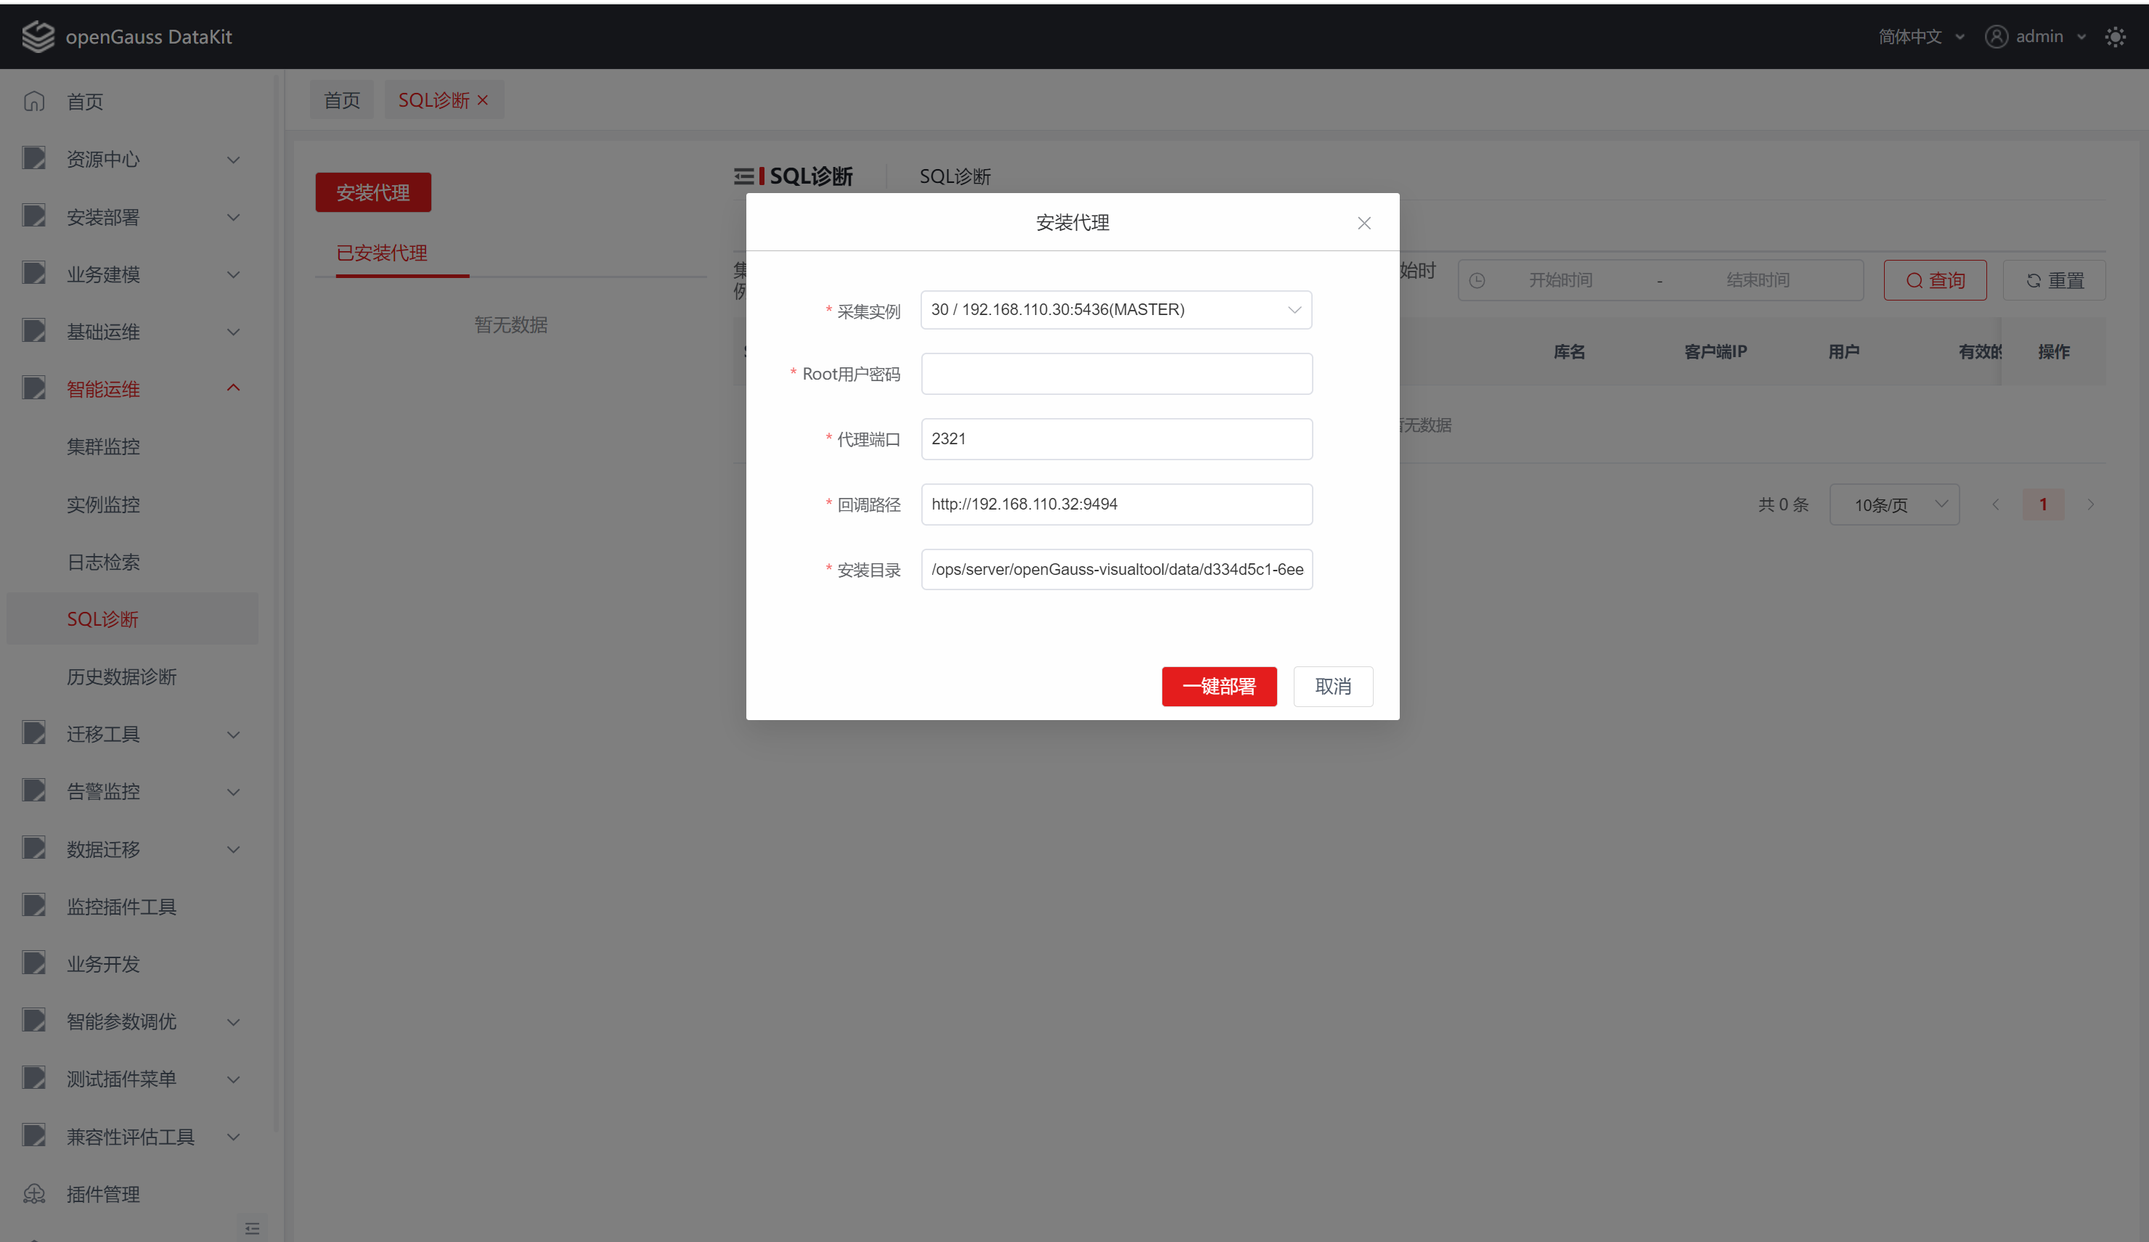
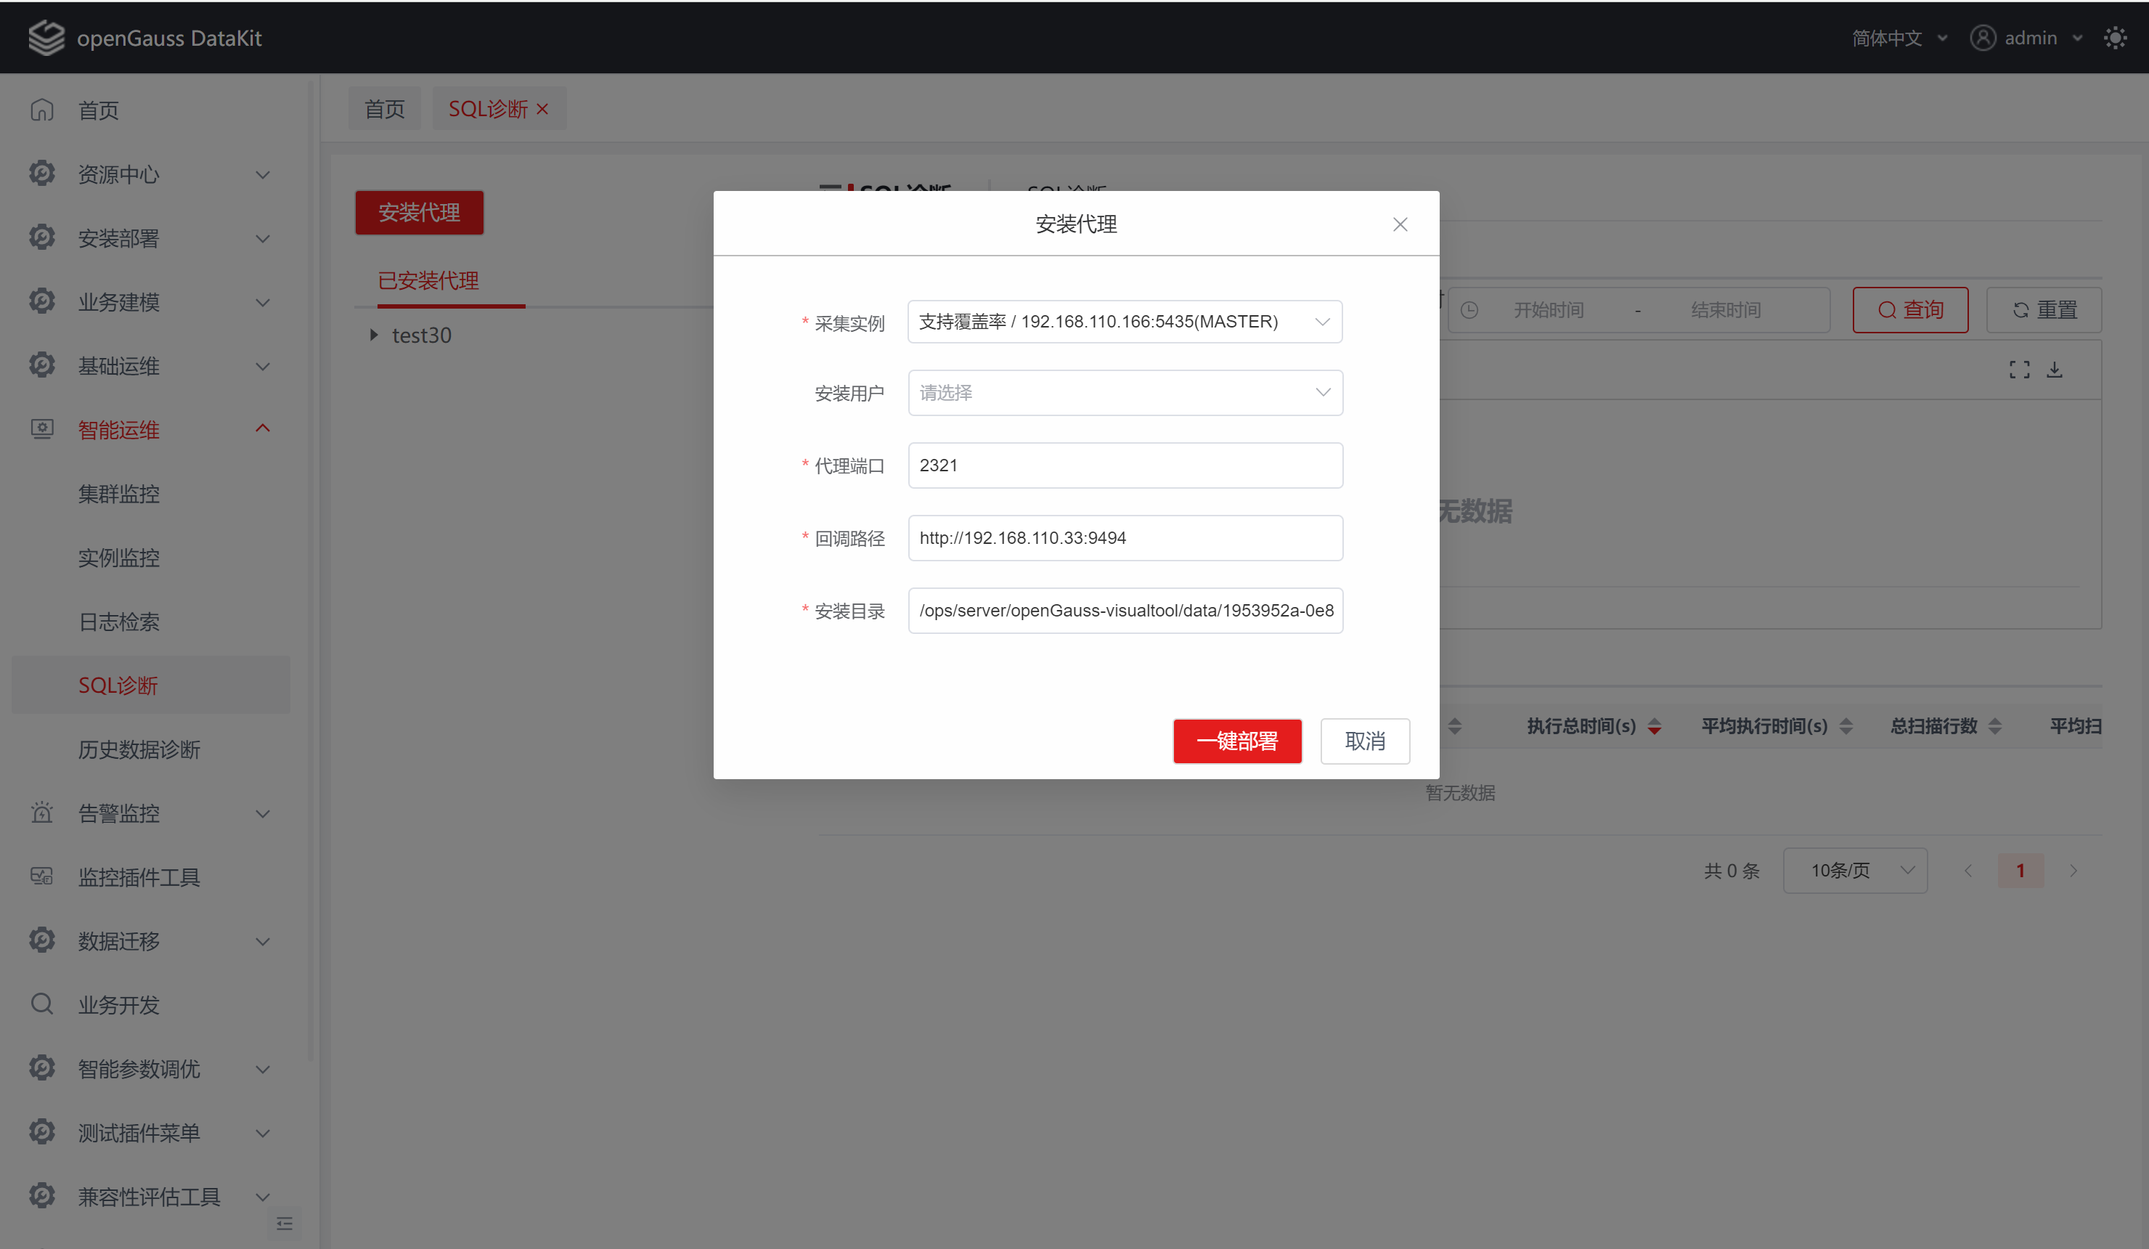
更新操作手册

diff --git a/plugins/observability-sql-diagnosis/README.md b/plugins/observability-sql-diagnosis/README.md
@@ -25,12 +25,14 @@
 
 ### 2.3 修订记录
 
-| 日期       | 版本   | 变更说明                     | 修改人 | 审核人 |
-| ---------- | ------ | ---------------------------- | ------ | ------ |
-| 2022/12/19 | v1.0.0 | 新增编译初版                 | 巫悦彬 | 曾色亮 |
-| 2023/06/14 | v1.1.0 | 新增历史数据诊断             | 罗梦   | 曾色亮 |
-| 2023/09/08 | v1.2.0 | 调整整体架构以及添加新诊断点 | 罗梦   | 曾色亮 |
-| 2024/03/22 | v1.3.0 | 优化安装部署、支持阈值设置   | 罗梦   | 彭斐灵 |
+| 日期       | 版本   | 变更说明                                       | 修改人 | 审核人 |
+| ---------- | ------ | ---------------------------------------------- | ------ | ------ |
+| 2022/12/19 | v1.0.0 | 新增编译初版                                   | 巫悦彬 | 曾色亮 |
+| 2023/06/14 | v1.1.0 | 新增历史数据诊断                               | 罗梦   | 曾色亮 |
+| 2023/09/08 | v1.2.0 | 调整整体架构以及添加新诊断点                   | 罗梦   | 曾色亮 |
+| 2024/03/22 | v1.3.0 | 优化安装部署、支持阈值设置                     | 罗梦   | 彭斐灵 |
+| 2024/05/31 | v1.4.0 | 慢SQL增加趋势图以及统计功能、SQL诊断支持schema | 罗梦   | 杨子浩 |
+| 2024/08/05 | v1.4.0 | 支持非Root用户进行诊断                         | 罗梦   | 杨子浩 |
 
 
 
@@ -181,7 +183,7 @@ git clone https://gitee.com/opengauss/openGauss-workbench
 mvn clean package -P prod
 ```
 
-**步骤 3：** 在target目录下找到生成的observability-sql-diagnosis-6.0.0-repackage.jar，安装到一体化平台。
+**步骤 3：** 在target目录下找到生成的observability-sql-diagnosis-6.0.0-RC1-repackage.jar，安装到一体化平台。
 
 ![](doc/3.png)
 
@@ -191,15 +193,15 @@ mvn clean package -P prod
 
 ### 5.1 概述
 
-	智能诊断插件主要有安装部署、慢SQL、SQL诊断和历史数据诊断功能。
+	智能诊断插件主要有安装部署、慢SQL分析、慢SQL诊断和历史数据诊断等功能：
 
-	安装部署主要包括代理的安装、卸载、启动、停止和状态监控功能。代理需要部署在对应的数据库服务器，且需要通过Root用户进行安装。
+（1）安装部署主要包括代理的安装、卸载、启动、停止和状态监控、自动拉起功能。代理需要部署在对应的数据库服务器，且需要通过拥有Root权限的用户进行安装。
 
-	慢SQL主要包括慢SQL查询和慢SQL诊断功能，对纳入平台管理的集群/实例下的数据库中的历史慢SQL记录进行查询以及诊断操作。
+（2）慢SQL分析主要包括慢SQL趋势图、统计信息、明细信息功能，主要是对数据库中的历史慢SQL数据进行统计分析。慢SQL趋势图的数据依赖于实例监控插件服务端以及代理端的安装部署，未安装时会提示对应的错误信息，慢SQL统计信息以及明细信息的数据依赖于数据库参数的设置，未设置时将提示对应的错误信息。
 
-	SQL诊断主要包括创建诊断任务、查询诊断任务、查看诊断详情、删除诊断任务以及设置阈值功能。SQL诊断插件依赖本插件代理的部署，没有部署代理时，只会对执行计划相关的诊断项进行分析。SQL诊断插件可以通过慢SQL创建诊断任务，也可以通过自定义创建诊断任务。创建诊断任务后才可以查看和删除诊断任务，诊断任务运行完成后才可以查看诊断结果的详情信息。
+（3）慢SQL诊断主要包括创建诊断任务、查询诊断任务、查看诊断详情、删除诊断任务以及设置阈值功能。慢SQL诊断依赖本插件代理的部署，没有部署代理时，只会对执行计划相关的诊断项进行分析。慢SQL诊断可以通过慢SQL分析明细数据中选择一条慢SQL创建诊断任务，也可以通过自定义创建诊断任务。创建诊断任务后才可以查看和删除诊断任务，诊断任务运行完成后才可以查看诊断结果的详情信息。
 
-	历史数据诊断主要包括发起诊断、查看诊断详情以及设置阈值的功能。历史数据诊断不依赖本插件代理的部署，但会依赖实例监控插件服务端的部署，实例监控插件没有部署服务端时，历史指标数据相关的诊断项会分析异常。发起诊断之后，等待诊断完成才可以查看诊断结果的详情信息。
+（4）历史数据诊断主要包括发起诊断、查看诊断详情以及设置阈值的功能。历史数据诊断不依赖本插件代理的部署，但会依赖实例监控插件服务端的部署，实例监控插件没有部署服务端时，历史指标数据相关的诊断项会分析异常。发起诊断之后，等待诊断完成才可以查看诊断结果的详情信息。
 
 ### 5.2 部署代理
 
@@ -213,17 +215,18 @@ mvn clean package -P prod
 
 ![image-20230313210957759](doc/sql_proxy_install.png)
 
-	3、选择对应数据库实例，输入Root密码，点击【一键部署】按钮开始安装，点击【取消】按钮可取消安装。
+	3、选择对应数据库实例以及安装用户，点击【一键部署】按钮开始安装，点击【取消】按钮可取消安装。
 
 **说明：** 所有必选参数均需要填写。必填参数用星号（*）标识。
 
-| 配置项       | 必填 | 组件形式   | 配置说明                                            |
-| ------------ | ---- | ---------- | --------------------------------------------------- |
-| 采集实例     | 是   | 下拉框     | 平台纳入管理的集群/实例                             |
-| Root用户密码 | 是   | 文本输入框 | 部署实例的服务器Root用户密码                        |
-| 代理端口     | 是   | 文本输入框 | 安装代理的端口号，默认为2321，非法输入会出现异常    |
-| 回调路径     | 是   | 文本输入框 | 平台的地址，代理回传数据时调用平台Api接口，有默认值 |
-| 安装目录     | 是   | 文本输入框 | 代理安装在服务器上的绝对路径，有默认值              |
+| 配置项       | 必填 | 组件形式   | 配置说明                                                     |
+| ------------ | ---- | ---------- | ------------------------------------------------------------ |
+| 采集实例     | 是   | 下拉框     | 平台纳入管理的集群/实例                                      |
+| 安装用户     | 是   | 下拉框     | 平台纳入管理的服务器用户，非Root用户需要拥有Root权限         |
+| Root用户密码 | 是   | 文本输入框 | 默认隐藏，安装用户选择Root用户时显示，部署实例的服务器Root用户密码 |
+| 代理端口     | 是   | 文本输入框 | 安装代理的端口号，默认为2321，非法输入会出现异常             |
+| 回调路径     | 是   | 文本输入框 | 平台的地址，代理回传数据时调用平台Api接口，有默认值          |
+| 安装目录     | 是   | 文本输入框 | 代理安装在服务器上的绝对路径，有默认值                       |
 
 ![image-20230313211042855](doc/sql_proxy_install_form.png)
 
@@ -273,7 +276,12 @@ mvn clean package -P prod
 
 	1、在【已安装代理】TAB中，当鼠标悬停在实例上时，可以看到实例后有【停止】以及【卸载】按钮，点击【停止】按钮会在实例前显示蓝色圆点，表示代理正在停止中。
 
-**说明：** 仅能停止运行状态健康的代理。
+**说明：** 仅能停止运行状态健康的代理，安装用户为Root时需要输入Root密码。
+
+| 配置项       | 必填 | 组件形式   | 配置说明                                                     |
+| ------------ | ---- | ---------- | ------------------------------------------------------------ |
+| 安装用户     | 是   | 下拉框     | 安装代理时选择的用户                                         |
+| Root用户密码 | 是   | 文本输入框 | 默认隐藏、安装用户为Root时显示，部署实例的服务器Root用户密码 |
 
 ![image-20230313211135139](doc/stopping.PNG)
 
@@ -289,7 +297,12 @@ mvn clean package -P prod
 
 	1、在【已安装代理】TAB中，当当鼠标悬停在实例上时，可以看到实例后有【启动】以及【卸载】按钮，点击【启动】按钮会在实例前显示蓝色圆点，表示代理正在启动中。
 
-**说明：** 仅能启动运行状态不健康的代理。
+**说明：** 仅能启动运行状态不健康的代理，安装用户为Root时需要输入Root密码。
+
+| 配置项       | 必填 | 组件形式   | 配置说明                                                     |
+| ------------ | ---- | ---------- | ------------------------------------------------------------ |
+| 安装用户     | 是   | 下拉框     | 安装代理时选择的用户                                         |
+| Root用户密码 | 是   | 文本输入框 | 默认隐藏、安装用户为Root时显示，部署实例的服务器Root用户密码 |
 
 ![image-20230313211135139](doc/starting.PNG)
 
@@ -307,14 +320,15 @@ mvn clean package -P prod
 
 ![image-20230313211246773](doc/sql_proxy_uninstall.png)
 
-	2、输入Root密码，点击【一键卸载】按钮，开始卸载操作，点击【取消】按钮，关闭卸载窗口。
+	2、通过Root用户安装的需要输入Root密码，点击【一键卸载】按钮，开始卸载操作，点击【取消】按钮，关闭卸载窗口。
 
 **说明：** 所有必选参数均需要填写。必填参数用星号（*）标识。
 
-| 配置项       | 必填 | 组件形式   | 配置说明                     |
-| ------------ | ---- | ---------- | ---------------------------- |
-| 采集实例     | 是   | 下拉框     | 平台纳入管理的集群/实例      |
-| Root用户密码 | 是   | 文本输入框 | 部署实例的服务器Root用户密码 |
+| 配置项       | 必填 | 组件形式   | 配置说明                                                     |
+| ------------ | ---- | ---------- | ------------------------------------------------------------ |
+| 采集实例     | 是   | 下拉框     | 平台纳入管理的集群/实例                                      |
+| 安装用户     | 是   | 下拉框     | 安装代理时选择的用户                                         |
+| Root用户密码 | 是   | 文本输入框 | 默认隐藏、安装用户为Root时显示，部署实例的服务器Root用户密码 |
 
 **注：**卸载过程不可逆，卸载完成后将会清除该代理所有有关的数据（不影响SQL诊断历史诊断数据），请谨慎卸载！
 
@@ -332,13 +346,13 @@ mvn clean package -P prod
 
 #### 5.2.6状态监控
 
-通过定时器每隔1分钟检测采集代理的运行状态。
+通过定时器每隔1分钟检测采集代理的运行状态，当运行状态异常时，非Root用户安装的代理会尝试自动拉起。
 
-### 5.3 慢SQL
+### 5.3 慢SQL分析
 
-#### 5.3.1查看慢SQL
+#### 5.3.1查看慢SQL信息
 
-	1、智能诊断首页默认展示慢SQL的TAB页面，输入相关查询条件，点击【查询】按钮可以查看选择的实例下数据库的慢SQL信息，点击【重置】按钮会清除筛选条件。
+	1、智能诊断首页默认展示慢SQL分析的TAB页面，输入相关查询条件，点击【查询】按钮可以查看选择的实例下数据库的慢SQL趋势图、统计信息、明细信息，点击【重置】按钮会清除筛选条件。
 
 **说明：**
 
@@ -348,25 +362,94 @@ mvn clean package -P prod
 | 数据库       | 否   | 下拉框     | 实例下已安装的数据库    |
 | 执行开始时间 | 否   | 时间选择框 | 结束时间大于开始时间    |
 
-![image-20230313211630841](doc/sql_slow_search.png)
+![image-20230313211630841](doc/slowsql.PNG)
 
-#### 5.3.2慢SQL诊断
+#### 5.3.2慢SQL趋势图
 
-	1、在数据列表选择一条数据，点击【诊断】操作按钮，输入相关信息，可创建诊断任务，新增的【诊断任务】将在【SQL诊断任务】中显示，点击【取消】按钮可返回慢SQL列表页面。
+**说明：**
 
-**说明：**创建诊断任务的配置信息可详见【SQL诊断任务】。
+（1）支持图表缩放以及下载；
 
-![image-20230313211809035](doc/sql_slow_diagnosis_btn.png)
+（2）未选时间区间默认展示7天内的数据；
 
-![image-20230313212039988](doc/sql_slow_diagnosis_save.png)
+（3）慢SQL时长是获取数据库参数log_min_duration_statement的值；
+
+（4）已安装Agent进行采集，并且采集开关开启，未开启提示：此实例未安装指标采集代理，请先安装实例监控插件，并安装采集代理，对慢SQL指标进行采集；同时保证慢SQL指标的采集开关已打开；
+
+（5）慢SQL相关参数未开启会提示数据库未开启慢SQL跟踪相关参数，请先设置如下参数：
+
+enable_stmt_track:on 表示开启Full/Slow SQL捕获；
+
+track_stmt_stat_level:xxx/L0 设置第2个参数为L0及以上级别。
+
+正常展示数据：
+
+
+![image-20230313211630841](doc/slowsql_map.PNG)
+
+异常提示错误信息：
+
+
+![image-20230313211630841](doc/slow_sql_error.PNG)
+
+#### 5.3.3慢SQL统计信息
+
+**说明：**
+
+（1）支持分页查询、字段排序；
+
+（2）数据来源于数据库DBE_PERF.STATEMENT_HISTORY表。
+
+主要受到以下参数控制：
+
+
+- log_duration：是否记录慢查询。
+- log_min_duration_statement：单位毫秒，标记SQL的慢查询时间，0记录所有SQL，-1则不记录任何信息。
+- track_stmt_stat_level：默认为`OFF,L0`。参数第一部分为非OFF情况下，会记录所有SQL，第一部分为OFF，第二部分为非OFF情况下，仅记录慢SQL。
+- track_stmt_parameter：追踪语句更详细内容。
+
+此处代码判断逻辑为（以下各个条件为或判定，满足其一即可）：
+
+
+1. 打开了动态语句追踪功能：采用dynamic_func_control追踪STMT。
+2. track_stmt_stat_level追踪第一个level为L0或者更高。
+3. track_stmt_stat_level追踪第二个level为L0或者更高，且语句运行时间大于log_min_duration_statement设定值，且log_min_duration_statement大于等于0，并且没有打开track_stmt_parameter。
+4. 打开track_stmt_parameter，并且时间模式第一个值（消耗的DBTIME）大于0。
+
+![image-20230313211630841](doc/slowsql_agg.PNG)
+
+#### 5.3.4慢SQL明细信息
+
+**说明：**
+
+（1）支持分页查询、字段排序；
+
+（2）数据来源于数据库DBE_PERF.STATEMENT_HISTORY表，规则同上；
+
+（3）在数据列表在点击【SQL ID】字段支持跳转到实例监控插件TOP SQL页面；
+
+（4）在数据列表选择一条数据，点击【诊断】按钮支持跳转到SQL诊断【新增SQL诊断任务】TAB页面，并将慢SQL数据自动加载到目标页面。
+
+慢SQL明细信息表格：
+
+
+![image-20230313211630841](doc/slowsql_detail.PNG)
+
+【新增SQL诊断任务】TAB页面：
+
+**说明：**创建诊断任务的配置信息可详见<<创建SQL诊断任务>>章节。
 
 
 
-### 5.4 SQL诊断
+![image-20230313212039988](doc/create_task.PNG)
+
+
+
+### 5.4 慢SQL诊断
 
 #### 5.4.1查看SQL诊断任务
 
-	1、点击【SQL诊断任务】TAB，进入【SQL诊断任务】页面，输入筛选条件可点击【查询】按钮查看sql诊断任务。
+	1、点击【慢SQL诊断】TAB，进入【慢SQL诊断】页面，输入筛选条件可点击【查询】按钮查看sql诊断任务。
 
 **说明：**
 
@@ -377,7 +460,7 @@ mvn clean package -P prod
 | 任务名称     | 否   | 文本输入框 | 任务名称，支持模糊筛选  |
 | 执行开始时间 | 否   | 时间选择框 | 结束时间大于开始时间    |
 
-![image-20230313212433973](doc/sql_01.PNG)
+![image-20230313212433973](doc/sql_diagnosis_index.PNG)
 
 #### 5.4.2创建SQL诊断任务
 
@@ -389,13 +472,14 @@ mvn clean package -P prod
 | ---------------- | ---- | ---------- | ---------------------------------------------------- |
 | 集群/实例        | 是   | 下拉框     | 平台纳入管理的集群/实例                              |
 | 数据库           | 是   | 下拉框     | 实例下已安装的数据库                                 |
+| 模式             | 是   | 下拉框     | 数据库中的模式                                       |
 | 任务名称         | 是   | 文本输入框 | 任务名称                                             |
 | SQL              | 是   | 文本输入框 | 有效的SQL语句,支持create、insert、update、delete语句 |
 | 可选项           | 否   | 勾选框     | 默认不勾选，勾选会诊断相关的诊断点                   |
 | 本次诊断阈值配置 | 是   | 列表       | 有默认值，设置诊断项本次诊断是否建议的阈值           |
 | 全局阈值         | 否   | 按钮       | 设置诊断项全局生效是否建议的阈值                     |
 
-![image-20230313212433973](doc/sql_03.PNG)
+![image-20230313212433973](doc/sql_diagnosis_create_task.PNG)
 
 #### 5.4.3查看SQL诊断详情
 
